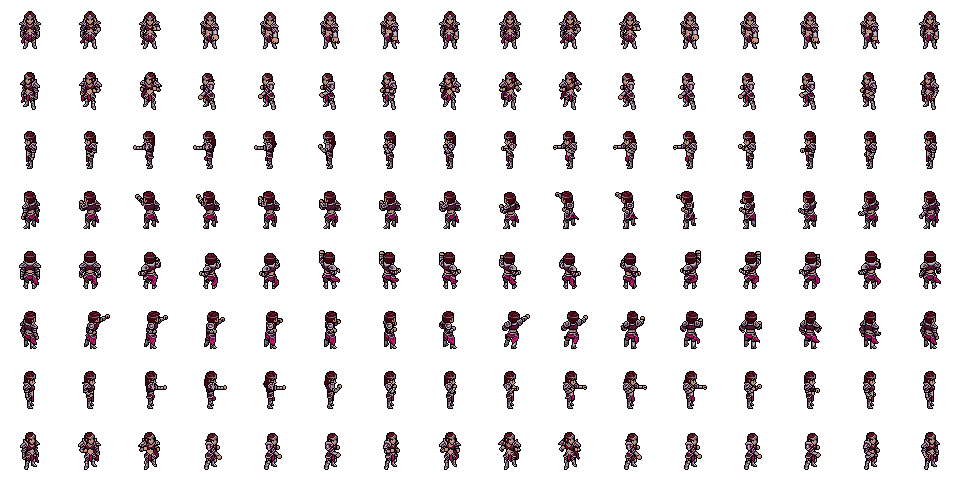
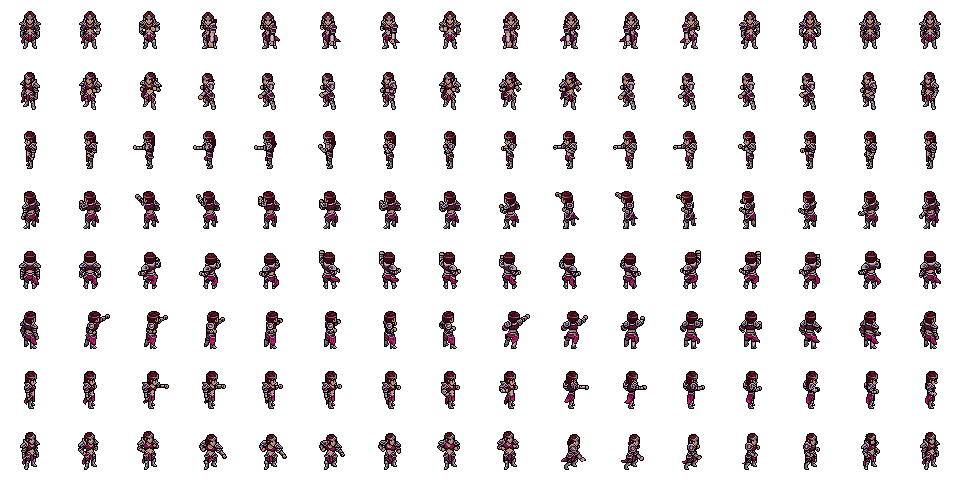
TESTE: corrida, golpe rápido e combo completo (8 direções) da Lutadora
Claude-Session: https://claude.ai/code/session_01Dtg2QNnkZpHeYDhStFoZzr

diff --git a/public/js/pxchars.js b/public/js/pxchars.js
@@ -7,7 +7,7 @@
     fairy_elf: { soco: { src: '/assets/px/fada_soco.png', n: 16, ms: 70, half: true } },
     // Dark Knight → Lutadora (soco de 8 quadros e golpe especial de 8 quadros nas habilidades)
     // golpes normais alternam o soco e as duas metades do combo de 16 quadros
-    dark_knight: { soco: { src: '/assets/px/lutadora_soco.png', n: 8, ms: 60 }, combo: { src: '/assets/px/lutadora_combo.png', n: 16, ms: 55, half: true }, especial: { src: '/assets/px/lutadora_especial.png', n: 8, ms: 70 } },
+    dark_knight: { run: { src: '/assets/px/lutadora_corre.png', n: 8 }, soco: { src: '/assets/px/lutadora_soco.png', n: 8, ms: 60 }, combo: { src: '/assets/px/lutadora_combo.png', n: 16, ms: 55, half: true }, especial: { src: '/assets/px/lutadora_especial.png', n: 8, ms: 70 } },
   };
   const FOOT_X = 30, FOOT_Y = 49, CHAR_H = 38; // ponto de apoio (pés) e altura útil do desenho
   const imgs = {};
@@ -43,6 +43,7 @@
       if (e.pxSpecial && C.especial && atkAge < C.especial.n * C.especial.ms) { A = C.especial; frame = Math.floor(atkAge / A.ms); }
       else if (C.combo && (e.pxN || 0) % 3 !== 0 && atkAge < (C.combo.n / 2) * C.combo.ms) { A = C.combo; frame = Math.floor(atkAge / A.ms) + (e.pxN % 3 === 2 ? A.n / 2 : 0); }
       else if (atkAge < (C.soco.half ? C.soco.n / 2 : C.soco.n) * C.soco.ms) { frame = Math.floor(atkAge / C.soco.ms) + (C.soco.half && e.pxHalf ? C.soco.n / 2 : 0); }
+      else if (moving && C.run) { A = C.run; frame = Math.floor((now + (e.phase || 0)) / ((e.speed || 0) > 65 ? 77 : 133)) % C.run.n; } // corrida (andar = mais devagar)
       else if (moving) { const run = (e.speed || 0) > 65; bob = Math.abs(Math.sin((now + (e.phase || 0)) / (run ? 77 : 133) * Math.PI / 2)) * 1.6; }
       else bob = (Math.sin((now + (e.phase || 0)) / 700) + 1) * 0.5; // parada: flutua 1 px bem devagar
       const im = load(A.src);

diff --git a/public/game.html b/public/game.html
@@ -294,7 +294,7 @@
 
   <script src="/js/pixel.js?v=19"></script>
   <script src="/js/sprites.js?v=27"></script>
-  <script src="/js/pxchars.js?v=3"></script>
+  <script src="/js/pxchars.js?v=4"></script>
   <script src="/js/sfx.js?v=20"></script>
   <script src="/js/admin-tools.js?v=15"></script>
   <script src="/js/game.js?v=75"></script>
